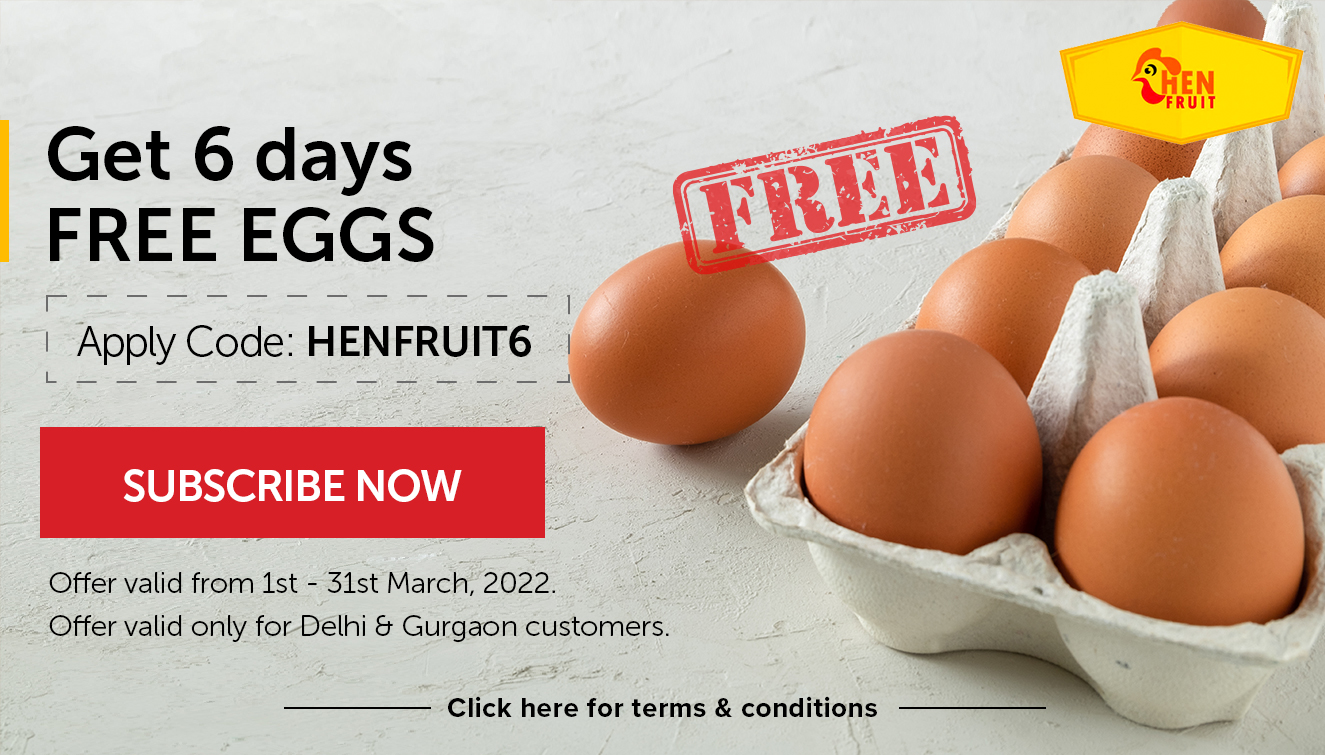
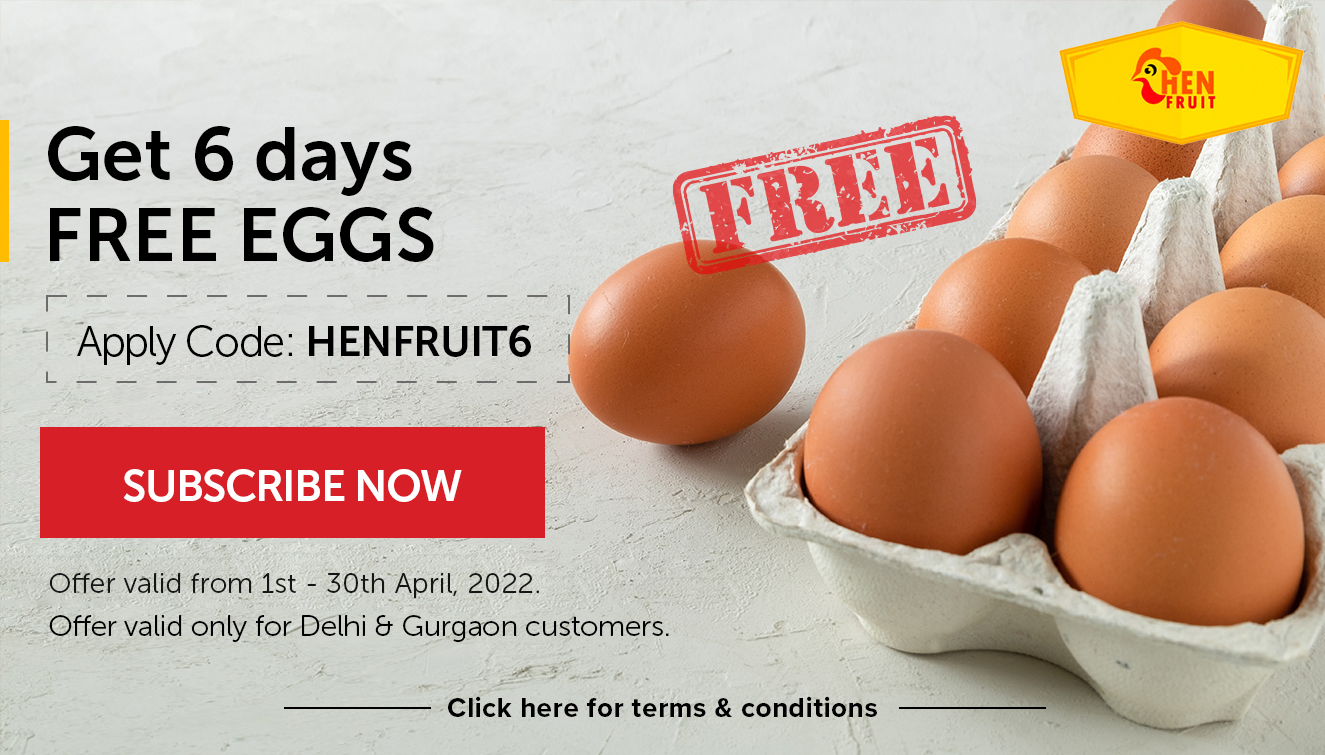
changes
Validity date updated
banners added as requested in mail

Changed region(s): [[0.0309, 0.7311, 0.4951, 0.7921], [0.4951, 0.7311, 0.526, 0.7616]]

diff --git a/grouphtmls/subscriptionoffer/dairy.html b/grouphtmls/subscriptionoffer/dairy.html
@@ -117,8 +117,8 @@
           >
             • The offer is applicable only on a selected list of dairy products
             including curd, dahi, buttermilk, chhach, and paneer etc. <br />
-            • The coupon is to be applied during the offer period 1st March
-            to 31st March 2022 only <br />
+            • The coupon is to be applied during the offer period 1st April
+            to 30th April 2022 only <br />
             • The offer is applicable for all bbdaily customers. <br />
             • There will be one free product delivery of the subscribed product
             after every four paid deliveries. <br />

diff --git a/grouphtmls/milkoffer/offer/t2cities/tcoupon1.html b/grouphtmls/milkoffer/offer/t2cities/tcoupon1.html
@@ -136,7 +136,7 @@ $(document).ready(function () {
                       Min Recharge value: Rs.1000/- <br>
                       Only for New Customer. Customer should activate milk subscription <br>
                       Offer applicable on all 500ml fresh milk packets <br>
-                      Offer valid till 31st March 2022 <br>
+                      Offer valid till 30th April 2022 <br>
                       Offer is void if the customer unsubscribes <br>
                       Coupons applicable once per address <br>
                       bbdaily reserves the right to withdraw the offer at any point in time <br>

diff --git a/grouphtmls/milkoffer/offer/t2cities/tcoupon2.html b/grouphtmls/milkoffer/offer/t2cities/tcoupon2.html
@@ -136,7 +136,7 @@ $(document).ready(function () {
                       Min Recharge value: Rs.2000/- <br>
                       Only for New Customer. Customer should activate milk subscription <br>
                       Offer applicable on all 500ml fresh milk packets <br>
-                      Offer valid till 31st March 2022 <br>
+                      Offer valid till 30th April 2022 <br>
                       Offer is void if the customer unsubscribes <br>
                       Coupons applicable once per address <br>
                       bbdaily reserves the right to withdraw the offer at any point in time <br>

diff --git a/grouphtmls/milkoffer/offer/bangalore/bcoupon2.html b/grouphtmls/milkoffer/offer/bangalore/bcoupon2.html
@@ -140,7 +140,7 @@
             Min Recharge value: Rs.1000/- <br>
             Only for new customers. The customer should activate milk subscription (Product ID: 40244634) <br>
             Only the 500ml packet of this milk is eligible for the offer <br>
-            Offer valid from March 18th to April 18th, 2022 <br>
+            Offer valid from April 18th to April 18th, 2022 <br>
             The offer is void if the customer unsubscribes this milk subscription <br>
             This Coupon is applicable only once per address <br>
             bbdaily reserves the right to withdraw the offer at any point in time <br>

diff --git a/grouphtmls/milkoffer/offer/bangalore/bcoupon3.html b/grouphtmls/milkoffer/offer/bangalore/bcoupon3.html
@@ -136,7 +136,7 @@ $(document).ready(function () {
                       Min Recharge value: Rs.2000/-<br>
                       Only for New Customer. Customer should activate milk subscription<br>
                       Offer applicable on all 500ml fresh milk packets<br>
-                      Offer valid till 31st March 2022<br>
+                      Offer valid till 30th April 2022<br>
                       Offer is void if the customer unsubscribes<br>
                       Coupons applicable once per address<br>
                       bbdaily reserves the right to withdraw the offer at any point in time<br>

diff --git a/grouphtmls/milkoffer/offer/chennai/ccoupon2.html b/grouphtmls/milkoffer/offer/chennai/ccoupon2.html
@@ -135,7 +135,7 @@ $(document).ready(function () {
                       Min Recharge value: Rs.1000/-<br>
                       Only for New Customer. Customer should activate milk subscription<br>
                       Offer applicable on all 500ml fresh milk packets<br>
-                      Offer valid till 31st March 2022<br>
+                      Offer valid till 30th April 2022<br>
                       Offer is void if the customer unsubscribes<br>
                       Coupons applicable once per address<br>
                       bbdaily reserves the right to withdraw the offer at any point in time<br>

diff --git a/grouphtmls/milkoffer/offer/chennai/ccoupon3.html b/grouphtmls/milkoffer/offer/chennai/ccoupon3.html
@@ -135,7 +135,7 @@ $(document).ready(function () {
                       Min Recharge value: Rs.2000/-<br>
                       Only for New Customer. Customer should activate milk subscription<br>
                       Offer applicable on all 500ml fresh milk packets<br>
-                      Offer valid till 31st March 2022<br>
+                      Offer valid till 30th April 2022<br>
                       Offer is void if the customer unsubscribes<br>
                       Coupons applicable once per address<br>
                       bbdaily reserves the right to withdraw the offer at any point in time<br>

diff --git a/grouphtmls/milkoffer/offer/delhi/dcoupon1.html b/grouphtmls/milkoffer/offer/delhi/dcoupon1.html
@@ -130,7 +130,7 @@ $(document).ready(function () {
                       Min Recharge value: Rs.1000/-<br>
                       Only for New Customer. Customer should activate milk subscription<br>
                       Offer applicable on all 500ml fresh milk packets<br>
-                      Offer valid till 10th March 2022<br>
+                      Offer valid till 10th April 2022<br>
                       Offer is void if the customer unsubscribes<br>
                       Coupons applicable once per address<br>
                       bbdaily reserves the right to withdraw the offer at any point in time<br>

diff --git a/grouphtmls/milkoffer/offer/delhi/dcoupon2.html b/grouphtmls/milkoffer/offer/delhi/dcoupon2.html
@@ -130,7 +130,7 @@ $(document).ready(function () {
                       Min Recharge value: Rs.2000/-<br>
                       Only for New Customer. Customer should activate milk subscription<br>
                       Offer applicable on all 500ml fresh milk packets<br>
-                      Offer valid till 10th March 2022<br>
+                      Offer valid till 10th April 2022<br>
                       Offer is void if the customer unsubscribes<br>
                       Coupons applicable once per address<br>
                       bbdaily reserves the right to withdraw the offer at any point in time<br>

diff --git a/grouphtmls/milkoffer/offer/delhi/dcoupon3.html b/grouphtmls/milkoffer/offer/delhi/dcoupon3.html
@@ -130,7 +130,7 @@ $(document).ready(function () {
                       Min Recharge value: Rs.3000/-<br>
                       Only for New Customer. Customer should activate milk subscription<br>
                       Offer applicable on all 500ml fresh milk packets<br>
-                      Offer valid till 10th March 2022<br>
+                      Offer valid till 10th April 2022<br>
                       Offer is void if the customer unsubscribes<br>
                       Coupons applicable once per address<br>
                       bbdaily reserves the right to withdraw the offer at any point in time<br>

diff --git a/grouphtmls/milkoffer/offer/delhi/dcoupon4.html b/grouphtmls/milkoffer/offer/delhi/dcoupon4.html
@@ -136,7 +136,7 @@ $(document).ready(function () {
                       Min Recharge value: Rs.1000/-<br>
                       Only for New Customer. Customer should activate milk subscription<br>
                       Offer applicable on all 500ml fresh milk packets<br>
-                      Offer valid till 31st March 2022<br>
+                      Offer valid till 30th April 2022<br>
                       Offer is void if the customer unsubscribes<br>
                       Coupons applicable once per address<br>
                       bbdaily reserves the right to withdraw the offer at any point in time<br>

diff --git a/grouphtmls/milkoffer/offer/delhi/dcoupon5.html b/grouphtmls/milkoffer/offer/delhi/dcoupon5.html
@@ -136,7 +136,7 @@ $(document).ready(function () {
                       Min Recharge value: Rs.2000/-<br>
                       Only for New Customer. Customer should activate milk subscription<br>
                       Offer applicable on all 500ml fresh milk packets<br>
-                      Offer valid till 31st March 2022<br>
+                      Offer valid till 30th April 2022<br>
                       Offer is void if the customer unsubscribes<br>
                       Coupons applicable once per address<br>
                       bbdaily reserves the right to withdraw the offer at any point in time<br>
